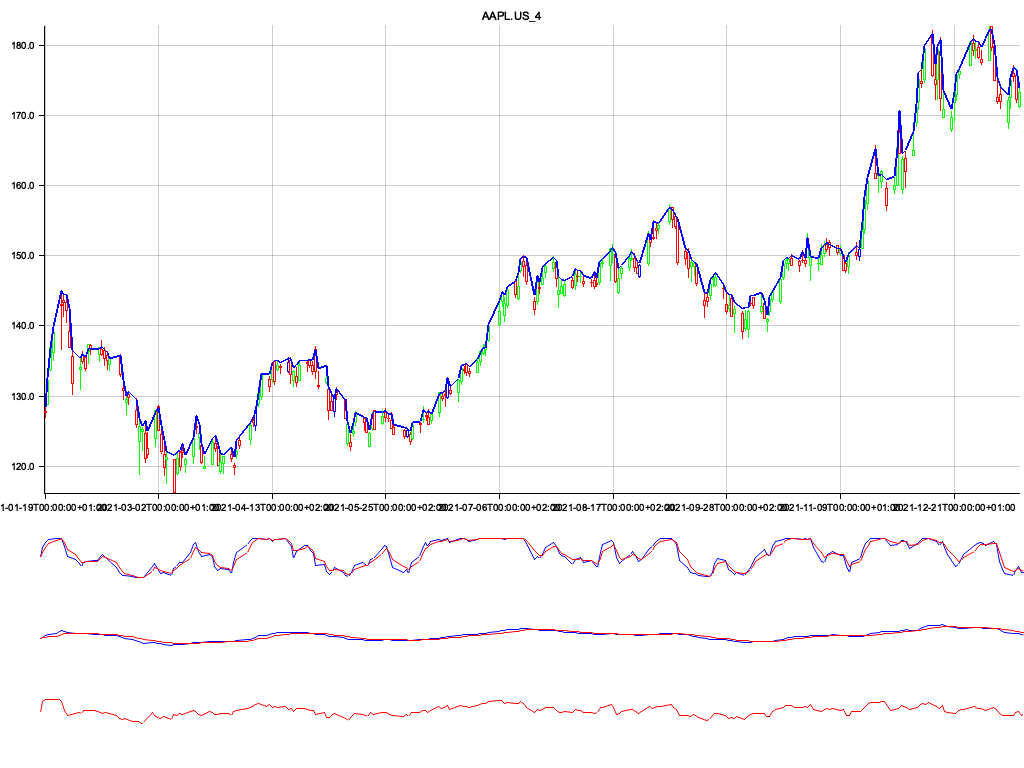
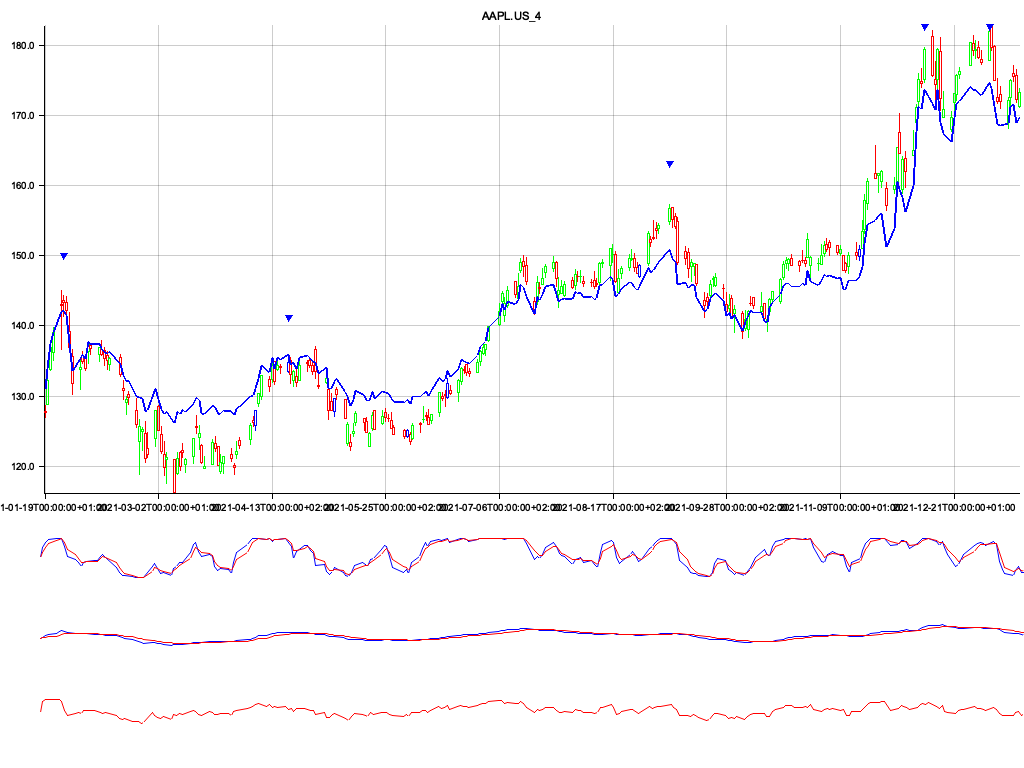
refactor: improve kernel regression generation

diff --git a/src/backend.rs b/src/backend.rs
@@ -130,19 +130,36 @@ impl Backend {
                 .unwrap();
         }
 
-        for x in smooth_lows.iter() {
-            chart
-                .draw_series(LineSeries::new(
-                    (0..).zip(smooth_lows.iter()).map(|(_k, highs)| {
-                        let idx = highs.0;
-                        let value = highs.1;
-                        let date = data[idx].date();
-                        (date, value)
-                    }),
-                    &BLUE,
-                ))
-                .unwrap();
-        }
+        chart
+            .draw_series(data.iter().enumerate().map(|(i, candle)| {
+                if local_maxima.contains(&(i, candle.high())) {
+                    return TriangleMarker::new(
+                        (
+                            candle.date(),
+                            candle.high() + candle.high() / peaks_marker_distance + 5.,
+                        ),
+                        -4,
+                        BLUE.filled(),
+                    );
+                } else {
+                    return TriangleMarker::new((candle.date(), candle.high()), 0, &TRANSPARENT);
+                }
+            }))
+            .unwrap();
+
+        // for x in smooth_lows.iter() {
+        //     chart
+        //         .draw_series(LineSeries::new(
+        //             (0..).zip(smooth_lows.iter()).map(|(_k, highs)| {
+        //                 let idx = highs.0;
+        //                 let value = highs.1;
+        //                 let date = data[idx].date();
+        //                 (date, value)
+        //             }),
+        //             &BLUE,
+        //         ))
+        //         .unwrap();
+        // }
 
         // for x in local_minima.iter() {
         //     chart
@@ -196,20 +213,21 @@ impl Backend {
         //   .unwrap();
 
         // HORIZONTAL LEVELS
-
         /*
         for x in horizontal_levels.iter() {
-          let color = match x.1.level_type() {
-            HorizontalLevelType::Support => BLUE.filled(),
-            HorizontalLevelType::Resistance => RED.filled(),
-            _ => TRANSPARENT.filled(),
-          };
-          chart
-            .draw_series(LineSeries::new(
-              (0..).zip(data.iter()).map(|(_id, candle)| (candle.date(), *x.1.price())),
-              color,
-            ))
-            .unwrap();
+            let color = match x.1.level_type() {
+                HorizontalLevelType::Support => BLUE.filled(),
+                HorizontalLevelType::Resistance => RED.filled(),
+                _ => TRANSPARENT.filled(),
+            };
+            chart
+                .draw_series(LineSeries::new(
+                    (0..)
+                        .zip(data.iter())
+                        .map(|(_id, candle)| (candle.date(), *x.1.price())),
+                    color,
+                ))
+                .unwrap();
         }
 
         let mut ema20 = ExponentialMovingAverage::new(20).unwrap();

diff --git a/src/patterns/peaks.rs b/src/patterns/peaks.rs
@@ -11,6 +11,7 @@ pub type HashData = HashMap<usize, f64>;
 #[derive(Debug, Clone)]
 pub struct Peaks {
     pub highs: Vec<f64>,
+    pub close: Vec<f64>,
     pub lows: Vec<f64>,
     pub local_maxima: Vec<(usize, f64)>,
     pub smooth_highs: Vec<(usize, f64)>,
@@ -24,6 +25,7 @@ impl Peaks {
     pub fn new() -> Peaks {
         Self {
             highs: vec![],
+            close: vec![],
             lows: vec![],
             local_maxima: vec![],
             local_minima: vec![],
@@ -72,9 +74,21 @@ impl Peaks {
             .unwrap()
             .parse::<f64>()
             .unwrap();
+
+        let kernel_bandwith = env::var("KERNEL_BANDWITH").unwrap().parse::<f64>().unwrap();
+        let mut arr: Vec<f64> = vec![];
+        //CONTINUE HERE
+        let mut candle_id = 0;
+        for x in &self.close {
+            let leches = kernel_regression(kernel_bandwith, *x, &self.close);
+            arr.push(leches.abs());
+            self.smooth_highs.push((candle_id, leches.abs()));
+            candle_id += 1;
+        }
+
         let local_prominence: f64 = max_price / local_prominence;
         let extrema_prominence: f64 = max_price / extrema_prominence;
-        let mut local_maxima_fp = PeakFinder::new(&self.highs);
+        let mut local_maxima_fp = PeakFinder::new(&arr);
         local_maxima_fp.with_min_prominence(local_prominence);
 
         let mut x_values: Vec<f64> = vec![];
@@ -85,14 +99,6 @@ impl Peaks {
             x_values.push(candle_id as f64);
             y_values.push(price);
             self.local_maxima.push((candle_id, price.abs()));
-        }
-
-        //CONTINUE HERE
-        let mut candle_id = 0;
-        for x in &self.highs {
-            let leches = kernel_regression(1., *x, &self.highs);
-            self.smooth_highs.push((candle_id, leches.abs()));
-            candle_id += 1;
         }
 
         // let mut candle_id = 0;

diff --git a/src/instrument.rs b/src/instrument.rs
@@ -94,6 +94,7 @@ impl Instrument {
                 }
                 self.peaks.highs.push(high);
                 self.peaks.lows.push(-low);
+                self.peaks.close.push(close);
                 let key = match id {
                     0 => id,
                     _ => id - 1,
@@ -127,7 +128,9 @@ impl Instrument {
             .calculate_horizontal_highs(&self.current_price, &self.peaks)
             .unwrap();
 
-        self.horizontal_levels.calculate_horizontal_lows(&self.current_price, &self.peaks).unwrap();
+        self.horizontal_levels
+            .calculate_horizontal_lows(&self.current_price, &self.peaks)
+            .unwrap();
         self.data = parsed;
         Ok(())
     }

diff --git a/src/helpers/regression.rs b/src/helpers/regression.rs
@@ -8,7 +8,9 @@ fn kernel_function_vec(h: f64, ker_x: &Vec<f64>, xi: f64) -> Vec<f64> {
 }
 
 fn gauss_exp(ker_x: f64, xi: f64, h: f64) -> f64 {
-    -(0.5 * (xi - ker_x).powf(2.)) / h * h
+    let den = h * h;
+    let num = -0.5 * (xi - ker_x).powf(2.);
+    num / den
 }
 
 fn kernel_function(h: f64, ker_x: f64, xi: f64) -> f64 {
